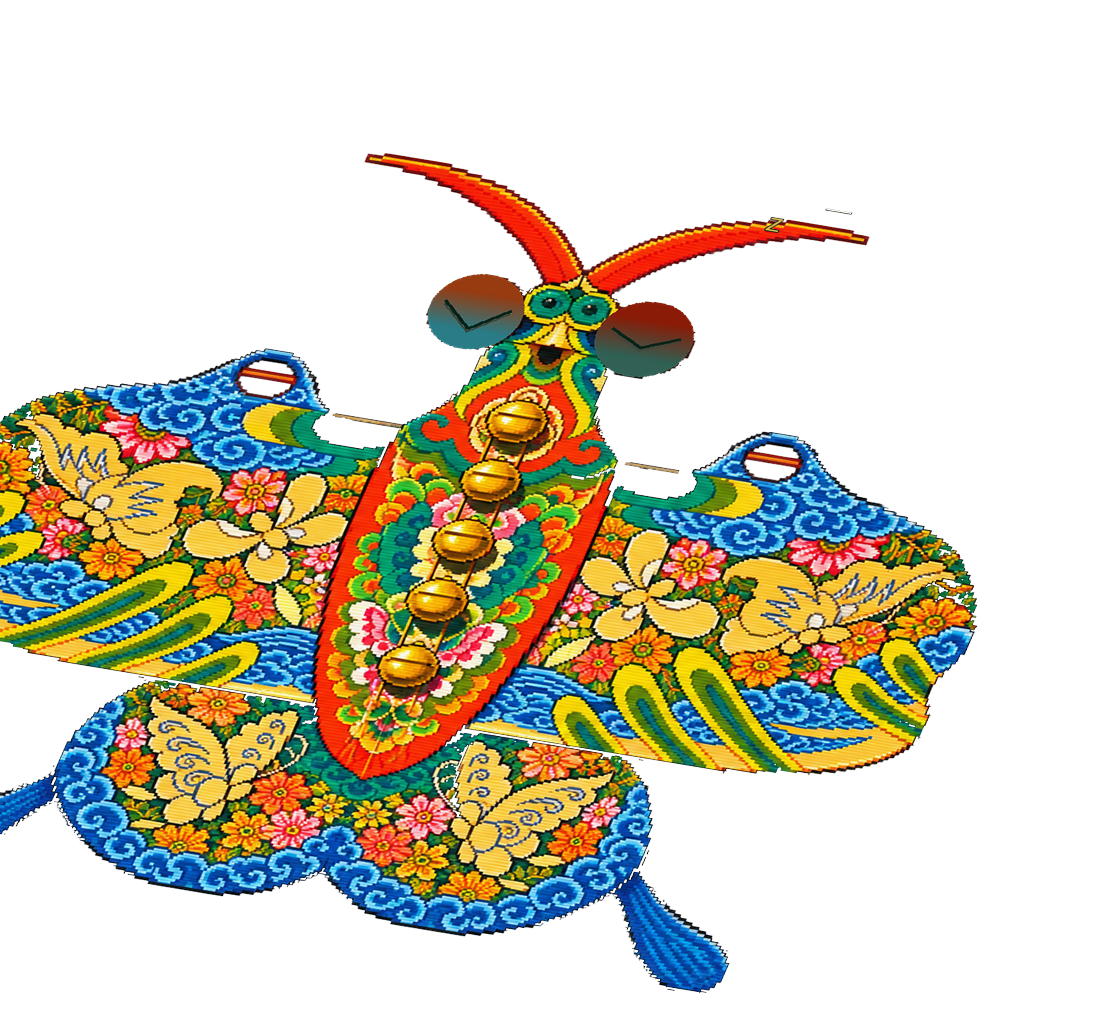
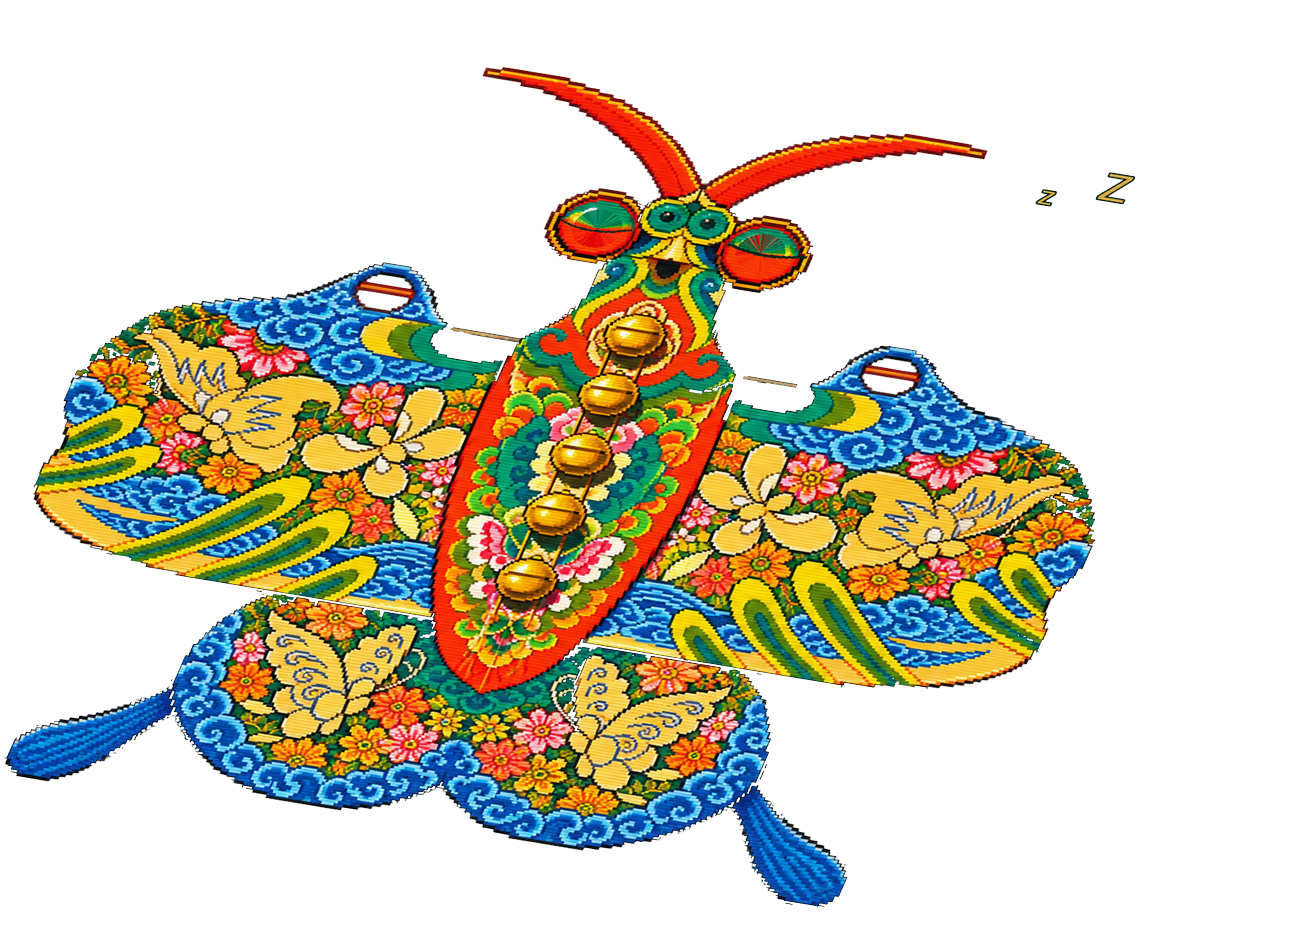
Fix sleep eye edit: clone ring texture over pupils, smooth bezier lids

diff --git a/tools/generate_hudie_kite_assets.py b/tools/generate_hudie_kite_assets.py
@@ -12,6 +12,7 @@ Workflow:
 from __future__ import annotations
 
 import argparse
+import math
 from collections import deque
 from pathlib import Path
 
@@ -19,76 +20,64 @@ from PIL import Image, ImageChops, ImageDraw, ImageFilter
 from PIL import ImageFont
 
 
-# 两只大眼睛的包围盒（占整图百分比，由视觉 API 测量）
+# 眼睛像素坐标（1112x1035 原图上由视觉 API 测量）：
+# box=(x0,y0,x1,y1), pupil=(cx,cy,r)
 EYE_SPECS = [
-    (37.6, 14.8, 8.6, 9.5),
-    (53.4, 14.8, 8.8, 9.5),
+    {'box': (418, 153, 513, 251), 'pupil': (470, 205, 19)},
+    {'box': (595, 153, 697, 251), 'pupil': (640, 202, 19)},
 ]
 
 
 def close_eyes(image: Image.Image) -> Image.Image:
-    """把风筝的大眼睛彻底改画成放松闭合的眼皮（左右略不对称），并加睡眠符号。"""
+    """只清除瞳孔/眼白/高光，保留彩色环纹，再画细闭眼弧线与睡眠符号。"""
     img = image.copy()
     width, height = img.size
     pixels = img.load()
     draw = ImageDraw.Draw(img)
 
-    for (ex, ey, ew, eh) in EYE_SPECS:
-        x0 = int(ex / 100.0 * width)
-        y0 = int(ey / 100.0 * height)
-        x1 = int((ex + ew) / 100.0 * width)
-        y1 = int((ey + eh) / 100.0 * height)
-        margin = max(2, int((x1 - x0) * 0.06))
+    for index, spec in enumerate(EYE_SPECS):
+        x0, y0, x1, y1 = spec['box']
+        cx, cy, radius = spec['pupil']
+        eye_w = x1 - x0
+        eye_h = y1 - y0
 
-        def sample_avg(xs, ys):
-            collected = []
-            for xx in xs:
-                for yy in ys:
-                    if 0 <= xx < width and 0 <= yy < height:
-                        r, g, b, a = pixels[xx, yy]
-                        if a > 0:
-                            collected.append((r, g, b))
-            if not collected:
-                return (248, 55, 20)
-            return tuple(sum(c[i] for c in collected) // len(collected) for i in range(3))
+        # 用瞳孔外圈（半径+14，更外侧的亮环纹）克隆填充瞳孔，保留像素质感
+        sample_radius = radius + 14
+        fill_radius = radius + 5
+        for yy in range(cy - fill_radius - 2, cy + fill_radius + 3):
+            for xx in range(cx - fill_radius - 2, cx + fill_radius + 3):
+                if 0 <= xx < width and 0 <= yy < height:
+                    dx = xx - cx
+                    dy = yy - cy
+                    if dx * dx + dy * dy <= (fill_radius + 1) * (fill_radius + 1):
+                        angle = math.atan2(dy, dx) if (dx or dy) else 0.0
+                        sx = int(cx + math.cos(angle) * sample_radius)
+                        sy = int(cy + math.sin(angle) * sample_radius)
+                        if 0 <= sx < width and 0 <= sy < height:
+                            r, g, b, a = pixels[sx, sy]
+                            pixels[xx, yy] = (r, g, b, a)
 
-        top_color = sample_avg(range(x0 - margin, x1 + margin), range(y0 - margin, y0))
-        bottom_color = sample_avg(range(x0 - margin, x1 + margin), range(y1, y1 + margin))
-
-        # 上下渐变填充，避免出现呆板的纯色圆块
-        gradient = Image.new('RGB', (1, 2))
-        gradient.putpixel((0, 0), top_color)
-        gradient.putpixel((0, 1), bottom_color)
-        gradient = gradient.resize((x1 - x0 + 1, y1 - y0 + 1), Image.Resampling.BILINEAR)
-        eye_mask = Image.new('L', (x1 - x0 + 1, y1 - y0 + 1), 0)
-        ImageDraw.Draw(eye_mask).ellipse((0, 0, x1 - x0, y1 - y0), fill=255)
-        img.paste(gradient, (x0, y0), eye_mask)
-
-        # 细眼皮弧线：左眼闭得更紧一点，右眼稍放松（不对称更自然）
-        lid_width = max(2, int((x1 - x0) * 0.05))
-        is_left = ex < 50
-        drop = 0.74 if is_left else 0.62
-        left = (x0 + int((x1 - x0) * 0.14), y0 + int((y1 - y0) * 0.42))
-        right = (x1 - int((x1 - x0) * 0.14), y0 + int((y1 - y0) * 0.42))
-        mid = ((left[0] + right[0]) // 2, y0 + int((y1 - y0) * drop))
-        draw.line([left, mid, right], fill=(8, 38, 28), width=lid_width, joint='curve')
-        # 眼皮下缘再叠一条稍浅的描边，增强“闭眼褶”的质感
-        draw.line(
-            [(left[0], left[1] + lid_width), (mid[0], mid[1] + lid_width), (right[0], right[1] + lid_width)],
-            fill=(60, 70, 60),
-            width=max(1, lid_width // 2),
-            joint='curve',
-        )
+        # 平滑贝塞尔闭眼弧线（横贯眼区，左右略不对称）
+        lid_width = max(2, int(eye_w * 0.04))
+        left = (x0 + int(eye_w * 0.10), cy - int(eye_h * 0.06))
+        right = (x1 - int(eye_w * 0.10), cy - int(eye_h * 0.06))
+        drop = int(eye_h * (0.14 if index == 0 else 0.10))
+        mid = ((left[0] + right[0]) // 2, cy + drop)
+        points = []
+        for step in range(15):
+            t = step / 14.0
+            px = (1 - t) ** 2 * left[0] + 2 * (1 - t) * t * mid[0] + t ** 2 * right[0]
+            py = (1 - t) ** 2 * left[1] + 2 * (1 - t) * t * mid[1] + t ** 2 * right[1]
+            points.append((px, py))
+        draw.line(points, fill=(8, 38, 28), width=lid_width, joint='curve')
 
     # 头顶侧边加两个由小到大的“z→Z”睡眠符号（斜向上飘）
     try:
         font_small = ImageFont.load_default(size=max(16, int(width * 0.028)))
         font_big = ImageFont.load_default(size=max(24, int(width * 0.045)))
-        right_eye = EYE_SPECS[1]
-        zx = int((right_eye[0] + right_eye[2]) / 100.0 * width) + int(width * 0.02)
-        zy = int(right_eye[1] / 100.0 * height) - int(height * 0.14)
-        draw.text((zx, zy), 'z', font=font_small, fill=(214, 171, 69), stroke_width=max(1, lid_width // 3), stroke_fill=(8, 38, 28))
-        draw.text((zx + int(width * 0.045), zy - int(height * 0.055)), 'Z', font=font_big, fill=(255, 247, 223), stroke_width=max(1, lid_width // 3), stroke_fill=(8, 38, 28))
+        # 睡眠符号移到右上角空白区，避免压到触角；只用金色+深色描边，避免白色残留
+        draw.text((int(width * 0.80), int(height * 0.05)), 'z', font=font_small, fill=(214, 171, 69), stroke_width=2, stroke_fill=(8, 38, 28))
+        draw.text((int(width * 0.85), int(height * 0.015)), 'Z', font=font_big, fill=(214, 171, 69), stroke_width=2, stroke_fill=(8, 38, 28))
     except Exception:
         pass
 
@@ -96,7 +85,7 @@ def close_eyes(image: Image.Image) -> Image.Image:
 
 
 def lying_pose(image: Image.Image, squash: float = 0.78, angle: float = -12.0, shear: float = 0.12, dy: int = 0) -> Image.Image:
-    """把风筝压扁、微倾并放到底部，形成瘫睡在底边的姿态。"""
+    """把风筝压扁、微倾，输出画布自适应内容尺寸，避免翅膀/飘带被裁切。"""
     rotated = image.rotate(angle, Image.Resampling.BICUBIC, expand=True)
     rw, rh = rotated.size
     # 横向剪切，让身体明显歪向一侧（瘫软感）
@@ -108,11 +97,11 @@ def lying_pose(image: Image.Image, squash: float = 0.78, angle: float = -12.0, s
     )
     nh = max(1, round(rh * squash))
     squashed = sheared.resize((rw, nh), Image.Resampling.LANCZOS)
-    canvas = Image.new('RGBA', image.size, (0, 0, 0, 0))
-    x = (image.size[0] - rw) // 2 - int(image.size[0] * 0.02)
-    y = image.size[1] - nh - 1 - dy
-    canvas.paste(squashed, (x, y), squashed)
-    return canvas
+    if dy:
+        canvas = Image.new('RGBA', (rw, nh + dy), (0, 0, 0, 0))
+        canvas.paste(squashed, (0, dy), squashed)
+        return canvas
+    return squashed
 
 
 def remove_dark_background(image: Image.Image, tolerance: int = 60) -> Image.Image:
